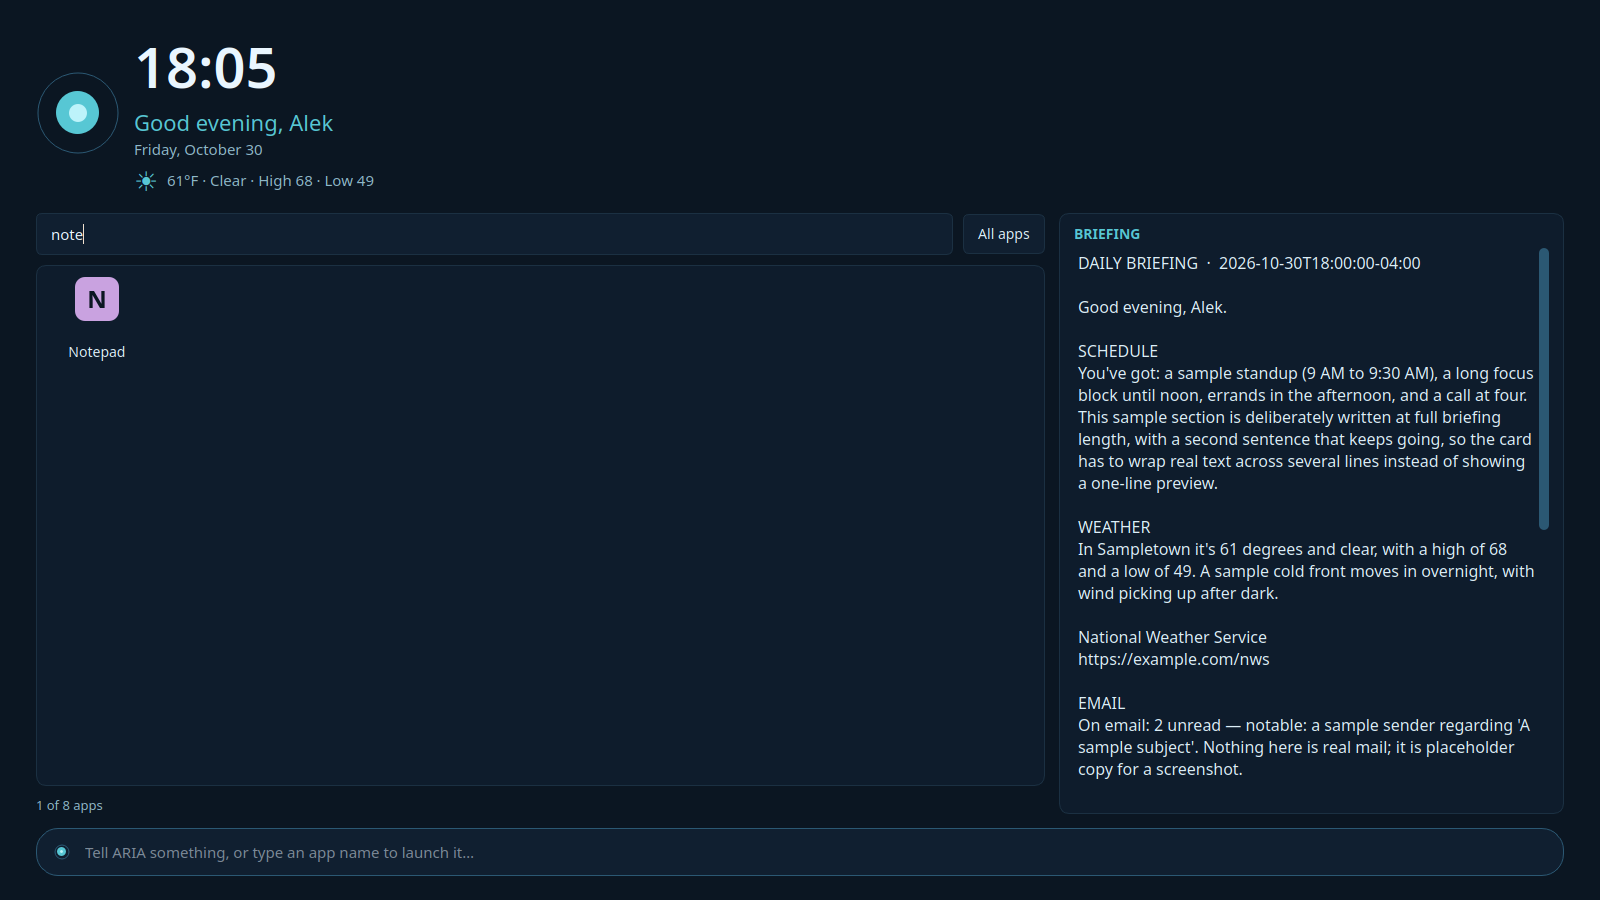
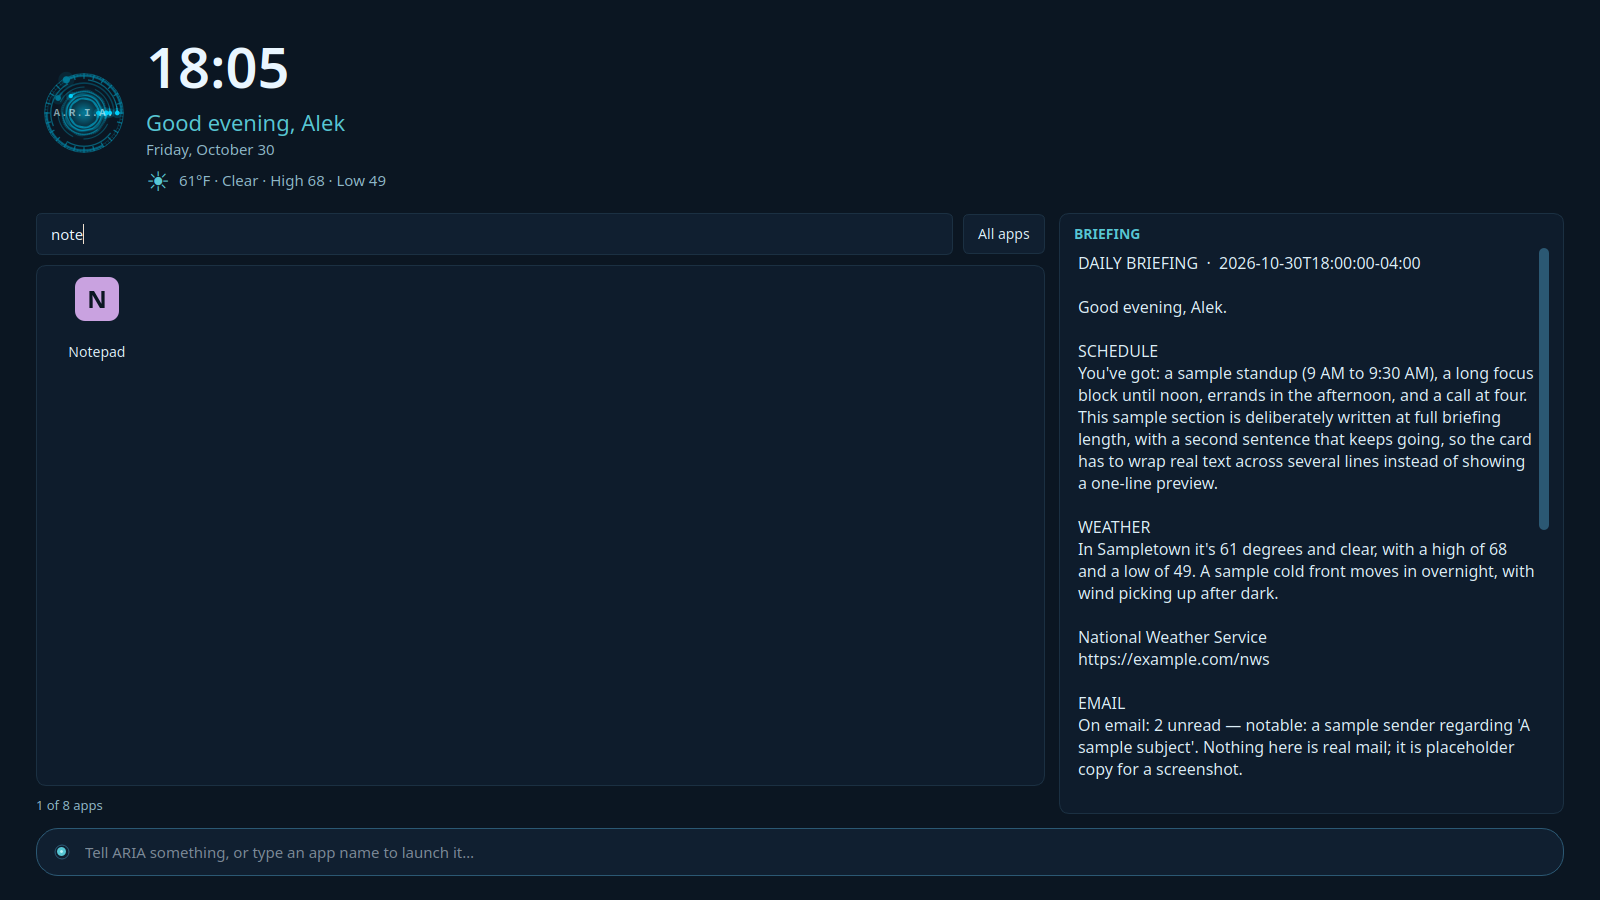
Shell Home V9: the header orb is her real waveform orb (Alek's order, 2026-10-30)
The header's static OrbDisc is replaced by
aria.resonance.ResonanceOrb (transparent, fixed 96px in the
old disc's slot). Dashboard.render_once forwards the SAME
(state, level, muted) triple it computed for its own face to
panel.advance_orb, only while Shell Home is active — gated
on the explicit V7 _shell_home_active flag, never
visibility. One source, two faces; no new timers, no second
level computation; when the shell is inactive the dashboard
orb owns the ticks exactly as before.

Accent: the orb reads the aria.resonance module palette,
which dashboard._apply_painted_accent already shifts — the
shell follows Customize automatically. Panel.set_accent no
longer repaints a header disc (only the dock dot, still an
OrbDisc at 18px where a waveform would be mush).

Tests: test_shell_panel 33 (+3: header orb is a transparent
96px ResonanceOrb and dock stays OrbDisc; advance_orb drives
state/amp/muted; accent PIXEL test in the test_resonance
style — resonance palette shifted to magenta scores
magenta 22 / stock-cyan 0 measured on the real render,
asserted >=10 / ==0 with the palette restored in finally;
two V4 accent tests adjusted from OrbDisc internals to the
dock dot). test_shell_dashboard 12 (+1: render_once forwards
per tick only while the shell is active, stops on exit).
Neighbours green; test_dashboard unchanged pre-existing
tabs failure only.

Changed region(s): [[0.0312, 0.0311, 0.25, 0.2178]]

diff --git a/aria/shell_panel.py b/aria/shell_panel.py
@@ -66,6 +66,16 @@ behaviour is unchanged (single select, double launch, the
 V3 relaunch guard intact), and the command bar still routes
 against ALL apps, pinned or not.
 
+V9 (2026-10-30, Alek's order): the header's static OrbDisc
+is replaced by her real waveform orb
+(``aria.resonance.ResonanceOrb``, transparent, 96px) — the
+dashboard's render_once forwards its (state, level, muted)
+triple to ``advance_orb`` while Shell Home is active (the V7
+flag), so the home screen's orb breathes with her voice. Its
+colours are the resonance module palette's, shifted by the
+dashboard's painted-accent path — Customize reaches it for
+free. The dock's 18px dot stays an OrbDisc.
+
 The card never fabricates: no briefing composed yet yields
 report_text's own honest placeholder line.
 
@@ -87,6 +97,7 @@ import time
 from datetime import datetime
 
 from aria import app_launcher, shell_home
+from aria.resonance import ResonanceOrb
 
 try:
     from PyQt6.QtCore import QFileInfo, QSize, Qt, QTimer, pyqtSignal
@@ -425,8 +436,20 @@ class ShellPanel(QWidget):
 
         # -- header: orb + clock/greeting/date ------------------
         header = QHBoxLayout()
-        self.orb = OrbDisc(self, diameter=84,
-                           colors=_orb_colors(self._accent))
+        # V9 (Alek, 2026-10-30): the header orb is her REAL
+        # waveform orb (aria.resonance.ResonanceOrb), not the
+        # static painted disc — the dashboard forwards its
+        # (state, level, muted) triple here while Shell Home is
+        # active (see advance_orb), so the home screen breathes
+        # with her voice. Transparent, so the shell background
+        # shows through; fixed 96px in the old disc's slot. Its
+        # colours are the resonance module palette's, which the
+        # dashboard's painted-accent path already shifts — the
+        # Customize accent reaches it with no panel wiring.
+        # (The 18px dock dot stays an OrbDisc: a waveform at
+        # that size is mush; it's a status dot.)
+        self.orb = ResonanceOrb(self, transparent_background=True)
+        self.orb.setFixedSize(96, 96)
         header.addWidget(self.orb)
         titles = QVBoxLayout()
         titles.setSpacing(2)
@@ -616,19 +639,38 @@ class ShellPanel(QWidget):
     def set_accent(self, accent):
         """Follow the dashboard's accent live (V4 addendum):
         rebuild the stylesheet from the accent family and repaint
-        both orb discs. Invalid accents are ignored — a bad
-        colour can never cost the shell its theme. Called by the
-        dashboard's apply_accent (Customize) and on Shell Home
-        open, so a colour changed while the shell was closed
-        shows the moment it opens, no restart."""
+        the dock dot. (The header waveform orb follows through
+        the resonance palette instead — see __init__.) Invalid
+        accents are ignored — a bad colour can never cost the
+        shell its theme. Called by the dashboard's apply_accent
+        (Customize) and on Shell Home open, so a colour changed
+        while the shell was closed shows the moment it opens,
+        no restart."""
         accent = _valid_accent(accent)
         if not accent:
             return
         self._accent = accent
         self.setStyleSheet(shell_style(accent))
-        colors = _orb_colors(accent)
-        self.orb.set_colors(*colors)
-        self.dock_orb.set_colors(*colors)
+        # V9: only the dock dot (still an OrbDisc) takes the
+        # shell family's colours here. The header orb is the
+        # ResonanceOrb — its palette lives in aria.resonance
+        # and is shifted by the dashboard's
+        # _apply_painted_accent on this same Customize path,
+        # so there is nothing panel-side to repaint for it.
+        self.dock_orb.set_colors(*_orb_colors(accent))
+
+    # -- the header waveform orb (V9) ----------------------------
+    def advance_orb(self, state, level, muted=False):
+        """Drive the header waveform orb: the dashboard's
+        render_once forwards the SAME (state, level, muted)
+        triple it computed for its own face, and only while
+        Shell Home is active — one source, two faces, no second
+        timer or level computation here. Fail-soft: a bad tick
+        can never cost the shell its frame loop."""
+        try:
+            self.orb.advance(state, level, muted)
+        except Exception:
+            pass
 
     # -- data -------------------------------------------------
     def refresh_apps(self):

diff --git a/tests/test_shell_panel.py b/tests/test_shell_panel.py
@@ -302,10 +302,12 @@ def test_custom_accent_rethemes_panel_and_orbs():
     assert "#57c7d4" not in sheet
     assert "#2b5873" not in sheet
     assert "#d4579c" in sheet
-    # Both orb discs repainted to the accent family.
-    assert panel.orb._core_color.name() == "#d4579c"
+    # The dock dot (still an OrbDisc) repainted to the accent
+    # family. The header orb is the ResonanceOrb since V9 —
+    # its accent path is the resonance palette, proven by the
+    # pixel test in the V9 section below, not by disc colours.
     assert panel.dock_orb._core_color.name() == "#d4579c"
-    assert panel.orb._ring.name() == "#732b3f"
+    assert panel.dock_orb._ring.name() == "#732b3f"
 
 
 def test_set_accent_rethemes_live_and_ignores_invalid():
@@ -314,7 +316,7 @@ def test_set_accent_rethemes_live_and_ignores_invalid():
     panel.set_accent("#e83a9a")
     assert panel._accent == "#e83a9a"
     assert "#57c7d4" not in panel.styleSheet().lower()
-    assert panel.orb._core_color.name() == "#d4579c"
+    assert panel.dock_orb._core_color.name() == "#d4579c"
     panel.set_accent("bogus")
     assert panel._accent == "#e83a9a"
 
@@ -512,3 +514,77 @@ def test_stale_pin_is_skipped_silently():
     assert _names(panel) == ["Steam"]
     assert panel.count_label.text() == "1 pinned"
     assert panel.grid_stack.currentWidget() is panel.app_list
+
+
+# -- V9: the header orb is the waveform orb ---------------------------
+
+def test_header_orb_is_the_waveform_orb():
+    panel, _calls = _panel()
+    from aria.resonance import ResonanceOrb
+    assert isinstance(panel.orb, ResonanceOrb)
+    assert panel.orb._transparent_background
+    # 96px fixed in the old static disc's slot (the orb's own
+    # 280px centerpiece minimum is overridden by the fix).
+    assert panel.orb.minimumWidth() == 96
+    assert panel.orb.maximumWidth() == 96
+    assert panel.orb.minimumHeight() == 96
+    assert panel.orb.maximumHeight() == 96
+    # The dock's status dot stays a painted OrbDisc.
+    assert isinstance(panel.dock_orb, shell_panel.OrbDisc)
+    assert not isinstance(panel.dock_orb, ResonanceOrb)
+
+
+def test_advance_orb_drives_the_waveform():
+    panel, _calls = _panel()
+    for _ in range(6):
+        panel.advance_orb("speaking", 0.9)
+    assert panel.orb.state == "SPEAKING"
+    assert panel.orb.speaking
+    assert panel.orb._amp_disp > 0.3
+    assert len(panel.orb._amp_hist) == 6
+    # Muted + idle are accepted without a crash (the dashboard
+    # forwards whatever the tick computed).
+    panel.advance_orb("idle", 0.0, muted=True)
+    assert panel.orb.muted
+    assert panel.orb.state == "IDLE"
+
+
+def test_header_orb_pixels_follow_resonance_accent():
+    # In the test_resonance style: shift the RESONANCE module
+    # palette to magenta (the dashboard's _apply_painted_accent
+    # does exactly this on a Customize change), drive the shell
+    # orb speaking, render it, and count pixel families. The
+    # palette is module-global, so it is restored in finally.
+    import aria.resonance as resonance
+    panel, _calls = _panel()
+    try:
+        assert resonance.apply_accent("#e83a9a")
+        for _ in range(30):
+            panel.advance_orb("speaking", 0.95)
+        panel.show()
+        _APP.processEvents()
+        img = panel.orb.grab().toImage()
+        magenta = cyan = 0
+        for x in range(img.width()):
+            for y in range(img.height()):
+                c = img.pixelColor(x, y)
+                if c.alpha() < 200:
+                    continue        # transparent surround
+                # Shifted PRI family: strong red, real blue,
+                # suppressed green.
+                if c.red() > 120 and c.blue() > 100 \
+                        and c.green() < 115:
+                    magenta += 1
+                # Stock PRI cyan (#00d4ff): near-zero red,
+                # strong green AND blue.
+                if c.red() < 90 and c.green() > 150 \
+                        and c.blue() > 180:
+                    cyan += 1
+        # Thresholds MEASURED on the real 96px render: the
+        # magenta palette scores magenta 22 / cyan 0; the stock
+        # palette scores magenta 0 / cyan 20. Asserted with
+        # ~2x headroom on the presence side, exact on absence.
+        assert magenta >= 10, (magenta, cyan)
+        assert cyan == 0, (magenta, cyan)
+    finally:
+        resonance.apply_accent(None)

diff --git a/tests/test_shell_dashboard.py b/tests/test_shell_dashboard.py
@@ -269,3 +269,26 @@ def test_shell_button_is_state_aware(monkeypatch):
         assert not win.right_card.isHidden()
     finally:
         win.close()
+
+
+def test_render_once_forwards_to_shell_orb_only_when_active(monkeypatch):
+    # V9: render_once forwards its (state, level, muted) to the
+    # shell header's waveform orb ONLY while Shell Home is the
+    # active center (the V7 flag) — no forwarding, no second
+    # drive, while the dashboard's own face owns the ticks.
+    window, _calls = _window(monkeypatch)
+    try:
+        orb = window.shell.orb
+        assert len(orb._amp_hist) == 0
+        window.render_once()
+        assert len(orb._amp_hist) == 0          # shell inactive
+        window.open_shell_home()
+        window.render_once()
+        window.render_once()
+        assert len(orb._amp_hist) == 2          # one per tick
+        window.shell_btn.click()                # exit the shell
+        assert not window._shell_is_home()
+        window.render_once()
+        assert len(orb._amp_hist) == 2          # forwarding stopped
+    finally:
+        window.close()

diff --git a/aria/dashboard.py b/aria/dashboard.py
@@ -1993,6 +1993,19 @@ def create_dashboard(callbacks):
                 self.orb3d.advance(state, level, _muted)
             else:
                 self.face.advance(state, level, _muted)
+            # Shell Home (V9, 2026-10-30): while the shell is the
+            # active center, her waveform orb ALSO lives in its
+            # header — forward this tick's same (state, level,
+            # muted), no second computation. Gated on the
+            # explicit V7 flag, never visibility: at Shell-Mode
+            # boot the first ticks can run before the window is
+            # shown, which is exactly where isVisible() lies.
+            if getattr(self, '_shell_home_active', False) \
+                    and getattr(self, 'shell', None) is not None:
+                try:
+                    self.shell.advance_orb(state, level, _muted)
+                except Exception:
+                    pass
             self._sync_neural_geometry()
             self.neural.setVisible(self.video is None
                                    or not self.video.isVisible())

diff --git a/README.md b/README.md
@@ -241,7 +241,9 @@ author's direction: one program, ARIA, with Shell Mode built in.
 
 - **Shell Home** (`aria/shell_panel.py`) — an OS home, not a
   settings panel: big clock, date, and time-of-day greeting with
-  ARIA's orb beside it, the local weather under the date
+  her live waveform orb beside it (the dashboard forwards its
+  voice state/level to the shell's orb while Shell Home is open,
+  so it breathes with her voice), the local weather under the date
   (condition symbol + temperature and the day's high/low, from
   the same wttr.in source her briefings use — fetched off the
   UI thread, refreshed at most every ~15 minutes, and simply
